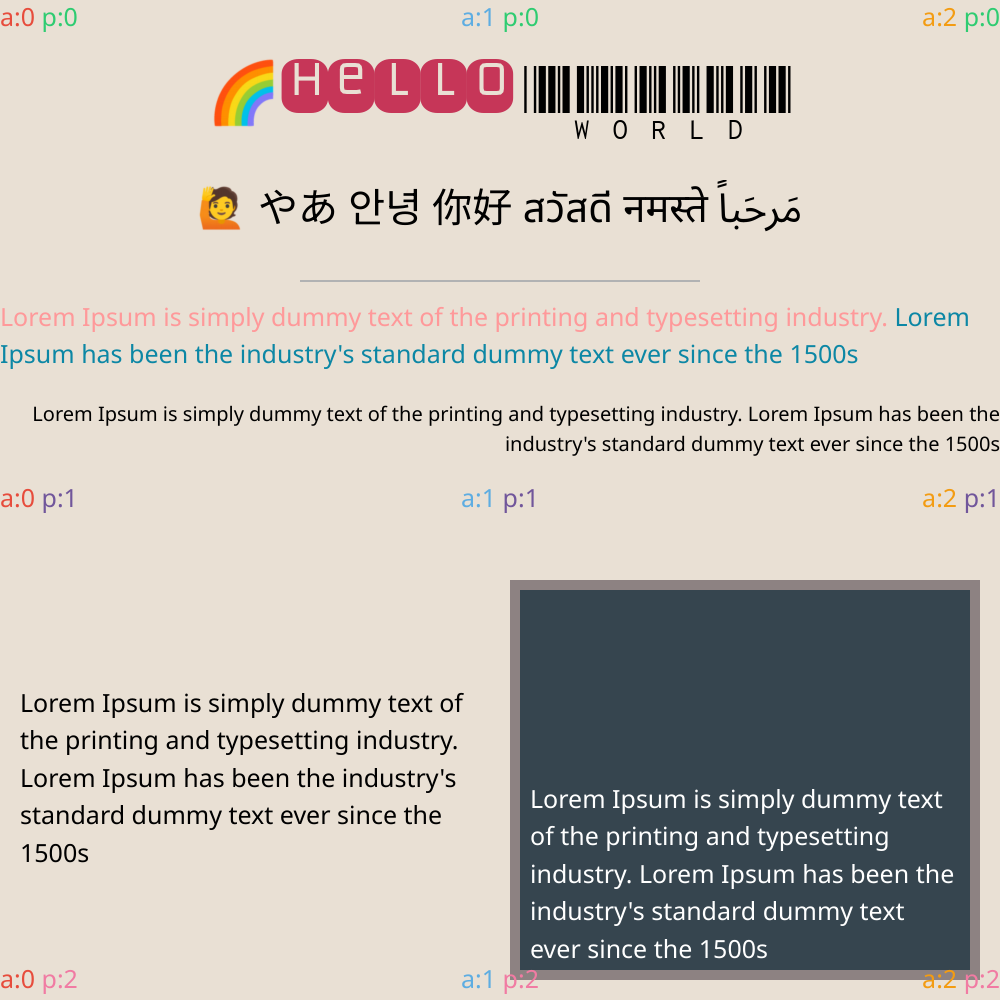
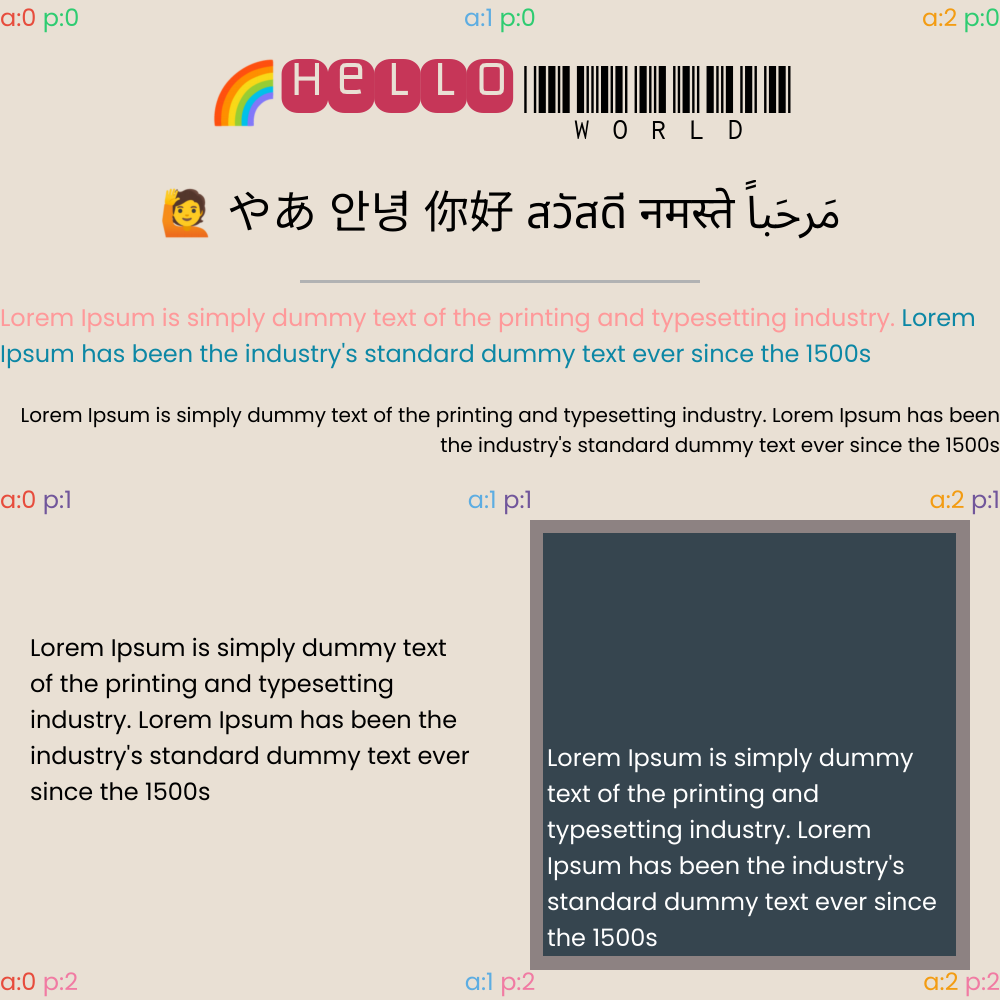
Refactor value to percentage

diff --git a/src/lib.rs b/src/lib.rs
@@ -10,8 +10,8 @@ pub struct Widget {
     p: Option<u8>,           // align widget (y axis) 0,1,2
     x: Option<f32>,          // position x axis
     y: Option<f32>,          // position x axis
-    w: Option<u32>,          // width
-    h: Option<u32>,          // height
+    w: Option<f32>,          // width
+    h: Option<f32>,          // height
     f: Option<u32>,          // font
     fs: Option<f32>,         // font size
     c: Option<String>,       // font color
@@ -20,10 +20,10 @@ pub struct Widget {
     ts: Option<Vec<Texts>>,  // texts item
     wi: Option<Vec<Widget>>, // widget item
     t: Option<String>,       // text
-    ml: Option<u32>,         // margin left
-    mt: Option<u32>,         // margin top
-    mr: Option<u32>,         // margin right
-    mb: Option<u32>,         // margin bottom
+    ml: Option<f32>,         // margin left
+    mt: Option<f32>,         // margin top
+    mr: Option<f32>,         // margin right
+    mb: Option<f32>,         // margin bottom
 }
 
 #[derive(Deserialize, Debug, PartialEq, Clone)]
@@ -38,14 +38,18 @@ pub struct ResultDrawText {
     pub count_pixel_out: u32,
 }
 
+fn cal_percent(percent: f32, of: f32) -> f32 {
+    of * (percent / 100.0)
+}
+
 fn draw_item(
     swash_cache: &mut SwashCache,
     font_system: &mut FontSystem,
     image: &mut DynamicImage,
     start_x: f32,
     start_y: f32,
-    text_layout_width: u32,
-    text_layout_height: u32,
+    text_layout_width: f32,
+    text_layout_height: f32,
     widgets: Vec<Widget>,
     default_font_family: u32,
     default_font_size: f32,
@@ -54,36 +58,46 @@ fn draw_item(
     faces: Vec<String>,
 ) -> Result<ResultDrawText, String> {
     let mut count_pixel_out = 0;
-    for widget in &widgets {
-        let widget_margin_left = widget.ml.unwrap_or(0);
-        let widget_margin_top = widget.mt.unwrap_or(0);
-        let widget_margin_right = widget.mr.unwrap_or(0);
-        let widget_margin_bottom = widget.mb.unwrap_or(0);
 
-        let widget_x = widget.x.unwrap_or(0.0) + start_x + widget_margin_left as f32;
-        let widget_y = widget.y.unwrap_or(0.0) + start_y + widget_margin_top as f32;
+    for widget in &widgets {
+        let widget_margin_left = cal_percent(widget.ml.unwrap_or(0.0), text_layout_width);
+        let widget_margin_top = cal_percent(widget.mt.unwrap_or(0.0), text_layout_height);
+        let widget_margin_right = cal_percent(widget.mr.unwrap_or(0.0), text_layout_width);
+        let widget_margin_bottom = cal_percent(widget.mb.unwrap_or(0.0), text_layout_height);
+        let widget_width = cal_percent(widget.w.unwrap_or(100.0), text_layout_width)
+            - widget_margin_left
+            - widget_margin_right;
+        let widget_height = cal_percent(widget.h.unwrap_or(100.0), text_layout_height)
+            - widget_margin_top
+            - widget_margin_bottom;
+        let widget_x =
+            cal_percent(widget.x.unwrap_or(0.0), text_layout_width) + start_x + widget_margin_left;
+        let widget_y =
+            cal_percent(widget.y.unwrap_or(0.0), text_layout_height) + start_y + widget_margin_top;
         let widget_a = widget.a.unwrap_or(0);
         let widget_p = widget.p.unwrap_or(0);
-
-        let widget_width =
-            widget.w.unwrap_or(text_layout_width) - widget_margin_left - widget_margin_right;
-        let widget_height =
-            widget.h.unwrap_or(text_layout_height) - widget_margin_top - widget_margin_bottom;
         let widget_font_size = widget.fs.unwrap_or(default_font_size);
         let widget_mlh = widget.mlh.unwrap_or(1.5);
 
         // Text metrics indicate the font size and line height of a buffer
-        let metrics = Metrics::new(widget_font_size, widget_font_size * widget_mlh);
+        let metrics = Metrics::new(
+            cal_percent(widget_font_size, image.width() as f32),
+            cal_percent(widget_font_size, image.width() as f32) * widget_mlh,
+        );
 
         // A Buffer provides shaping and layout for a UTF-8 string, create one per text widget
-        let mut buffer = Buffer::new_empty(metrics.scale(2.0));
+        let mut buffer = Buffer::new_empty(metrics.scale(1.0));
         // let mut buffer = Buffer::new_empty(metrics.scale(1.0));
 
         // Borrow buffer together with the font system for more convenient method calls
-        let mut buffer = buffer.borrow_with(font_system);
+        buffer.borrow_with(font_system);
 
         // Set a size for the text buffer, in pixels
-        buffer.set_size(Some(widget_width as f32), Some(widget_height as f32));
+        buffer.set_size(
+            font_system,
+            Some(widget_width as f32),
+            Some(widget_height as f32),
+        );
 
         // wrap text
         // buffer.set_wrap(cosmic_text::Wrap::None);
@@ -121,9 +135,8 @@ fn draw_item(
             .to_be_bytes();
 
             // fill bg base image
-            for y in 0..widget_height {
-                for x in 0..widget_width {
-                    // println!("x{} y{}", x, y);
+            for y in 0..widget_height as u32 {
+                for x in 0..widget_width as u32 {
                     image.put_pixel(x + widget_x as u32, y + widget_y as u32, Rgba(rgba_fill));
                 }
             }
@@ -137,7 +150,8 @@ fn draw_item(
             for it in widget_items {
                 if !it.t.is_empty() {
                     let font_id = it.f.unwrap_or(widget.f.unwrap_or(default_font_family));
-                    let font_size = it.fs.unwrap_or(widget_font_size);
+                    let font_size =
+                        cal_percent(it.fs.unwrap_or(widget_font_size), image.width() as f32);
 
                     let color = match it.c.is_some() {
                         true => {
@@ -166,7 +180,7 @@ fn draw_item(
                 }
             }
 
-            buffer.set_rich_text(spans.to_vec(), attrs, Shaping::Advanced);
+            buffer.set_rich_text(font_system, spans.to_vec(), attrs, Shaping::Advanced);
         }
 
         // Sum size area
@@ -179,8 +193,6 @@ fn draw_item(
             }
             sum_height += run.line_height;
         }
-
-        // println!("sum_height:{}",sum_height);
 
         // Inspect the output runs
         if !skip_size_check {
@@ -203,64 +215,71 @@ fn draw_item(
         }
 
         // Perform shaping as desired
-        buffer.shape_until_scroll(true);
+        buffer.shape_until_scroll(font_system, true);
 
         // buffer.redraw();
 
         // Draw the buffer (for performance, instead use SwashCache directly)
-        buffer.draw(swash_cache, widget_color, |d_x, d_y, d_w, d_h, color| {
-            if color.a() == 0 || d_w != 1 || d_h != 1 || d_x < 0 || d_y < 0 {
-                return;
-            }
-
-            let px = d_x as f32 + widget_x;
-            let py = match widget_p {
-                // TOP
-                0 => d_y as f32 + widget_y,
-                // Middle
-                1 => {
-                    (d_y as f32 + (widget_height / 2) as f32 - (sum_height / 2.0)) as f32 + widget_y
+        buffer.draw(
+            font_system,
+            swash_cache,
+            widget_color,
+            |d_x, d_y, d_w, d_h, color| {
+                if color.a() == 0 || d_w != 1 || d_h != 1 || d_x < 0 || d_y < 0 {
+                    return;
                 }
-                // Bottom
-                2 => d_y as f32 + widget_y + widget_height as f32 - sum_height,
-                _ => d_y as f32 + widget_y,
-            };
 
-            if px < image.width() as f32 && py < image.height() as f32 {
-                let base_color = image.get_pixel(px as u32, py as u32);
-                let new_alpha = color.a() as f32 / 255.0;
-                let base_alpha = base_color[3] as f32 / 255.0;
+                let px = d_x as f32 + widget_x;
+                let py = match widget_p {
+                    // TOP
+                    0 => d_y as f32 + widget_y,
+                    // Middle
+                    1 => {
+                        (d_y as f32 + (widget_height / 2.0) as f32 - (sum_height / 2.0)) as f32
+                            + widget_y
+                    }
 
-                let scale = |dc: u8, bc: u8| {
-                    (dc as f32 * new_alpha) + (bc as f32 * base_alpha * (1.0 - new_alpha))
+                    // Bottom
+                    2 => d_y as f32 + widget_y + widget_height as f32 - sum_height,
+                    _ => d_y as f32 + widget_y,
                 };
 
-                let r = scale(color.r(), base_color[0]);
-                let g = scale(color.g(), base_color[1]);
-                let b = scale(color.b(), base_color[2]);
-                let alpha = 255.0 * (new_alpha + base_alpha * (1.0 - new_alpha));
+                if px < image.width() as f32 && py < image.height() as f32 {
+                    let base_color = image.get_pixel(px as u32, py as u32);
+                    let new_alpha = color.a() as f32 / 255.0;
+                    let base_alpha = base_color[3] as f32 / 255.0;
 
-                image.put_pixel(
-                    px as u32,
-                    py as u32,
-                    Rgba([r as u8, g as u8, b as u8, alpha as u8]),
-                );
+                    let scale = |dc: u8, bc: u8| {
+                        (dc as f32 * new_alpha) + (bc as f32 * base_alpha * (1.0 - new_alpha))
+                    };
 
-                // Scale by alpha (mimics blending with black)
+                    let r = scale(color.r(), base_color[0]);
+                    let g = scale(color.g(), base_color[1]);
+                    let b = scale(color.b(), base_color[2]);
+                    let alpha = 255.0 * (new_alpha + base_alpha * (1.0 - new_alpha));
 
-                // let scale = |c: u8| (c as i32 * color.a() as i32 / 255).clamp(0, 255) as u8;
+                    image.put_pixel(
+                        px as u32,
+                        py as u32,
+                        Rgba([r as u8, g as u8, b as u8, alpha as u8]),
+                    );
 
-                // let r = scale(color.r());
-                // let g = scale(color.g());
-                // let b = scale(color.b());
-                // // let a = scale(color.a());
-                // let a = 255.0 * (new_alpha + base_alpha * (1.0 - new_alpha));
-                // image.put_pixel(px, py, Rgba([r as u8, g as u8, b as u8, a as u8]));
-            } else {
-                println!("{:#?}", (d_x, d_y, d_w, d_h));
-                count_pixel_out += 1;
-            }
-        });
+                    // Scale by alpha (mimics blending with black)
+
+                    // let scale = |c: u8| (c as i32 * color.a() as i32 / 255).clamp(0, 255) as u8;
+
+                    // let r = scale(color.r());
+                    // let g = scale(color.g());
+                    // let b = scale(color.b());
+                    // // let a = scale(color.a());
+                    // let a = 255.0 * (new_alpha + base_alpha * (1.0 - new_alpha));
+                    // image.put_pixel(px, py, Rgba([r as u8, g as u8, b as u8, a as u8]));
+                } else {
+                    println!("{:#?}", (d_x, d_y, d_w, d_h));
+                    count_pixel_out += 1;
+                }
+            },
+        );
 
         if widget.wi.is_some() {
             let result_draw_item = draw_item(
@@ -296,8 +315,8 @@ pub fn draw_text(
     image: &mut DynamicImage,
     start_x: f32,
     start_y: f32,
-    text_layout_width: u32,
-    text_layout_height: u32,
+    text_layout_width: f32,
+    text_layout_height: f32,
     widgets: Vec<Widget>,
     default_font_size: f32,
     default_color: &String,

diff --git a/src/main.rs b/src/main.rs
@@ -5,18 +5,19 @@ use std::fs::read;
 // example to used lib
 fn main() {
     let fonts_path = [
+        "fonts/poppins-v21-latin-regular.ttf",
         "fonts/noto-sans-thai-v25-thai-regular.ttf",
-        "fonts/Monofett-Regular.ttf",
-        "fonts/LibreBarcode39Text-Regular.ttf",
         "fonts/noto-sans-arabic-v28-arabic-regular.ttf",
         "fonts/noto-sans-jp-v53-japanese-regular.ttf",
         "fonts/noto-sans-kr-v36-korean-regular.ttf",
         "fonts/noto-sans-sc-v37-chinese-simplified-regular.ttf",
         "fonts/noto-sans-devanagari-v26-devanagari-regular.ttf",
         "fonts/NotoColorEmoji.ttf",
+        "fonts/Monofett-Regular.ttf",
+        "fonts/LibreBarcode39Text-Regular.ttf",
     ];
 
-    let json_txt = "[{fill:'e9e0d4'},{y:30,a:1,c:'000000',ts:[{fs:60,t:'🌈'},{f:1,fs:80,c:'C63658',t:'Hello '},{f:2,fs:80,t:'*world*'}]},{y:280,h:2,ml:300,mr:300,fill:'b1b2b3'},{y:300,c:'ff999a',ts:[{t:'Lorem Ipsum is simply dummy text of the printing and typesetting industry.'},{c:'0c87a5',t:' Lorem Ipsum has been the industry\\'s standard dummy text ever since the 1500s'}]},{y:400,a:2,ts:[{fs:20,t:'Lorem Ipsum is simply dummy text of the printing and typesetting industry. Lorem Ipsum has been the industry\\'s standard dummy text ever since the 1500s'}]},{a:1,y:180,fs:40,ts:[{t:'🙋 やあ 안녕 你好 สวัสดี नमस्ते مَرحَباً'}]},{y:580,ml:20,mr:10,p:1,w:500,h:400,ts:[{c:'000000',t:'Lorem Ipsum is simply dummy text of the printing and typesetting industry. Lorem Ipsum has been the industry\\'s standard dummy text ever since the 1500s'}]},{x:500,y:580,w:500,h:400,ml:10,mr:20,fill:'8d8282',wi:[{ml:10,mr:10,mb:10,mt:10,fill:'36454F',wi:[{p:2,ml:10,mr:10,ts:[{c:'ffffff',t:'Lorem Ipsum is simply dummy text of the printing and typesetting industry. Lorem Ipsum has been the industry\\'s standard dummy text ever since the 1500s'}]}]}]},{ts:[{c:'e74c3c',t:'a:0'},{c:'2ecc71',t:' p:0'}]},{a:1,ts:[{c:'5dade2',t:'a:1'},{c:'2ecc71',t:' p:0'}]},{a:2,ts:[{c:'f39c12',t:'a:2'},{c:'2ecc71',t:' p:0'}]},{p:1,ts:[{c:'e74c3c',t:'a:0'},{c:'71569b',t:' p:1'}]},{a:1,p:1,ts:[{c:'5dade2',t:'a:1'},{c:'71569b',t:' p:1'}]},{a:2,p:1,ts:[{c:'f39c12',t:'a:2'},{c:'71569b',t:' p:1'}]},{p:2,ts:[{c:'e74c3c',t:'a:0'},{c:'f17ba3',t:' p:2'}]},{a:1,p:2,ts:[{c:'5dade2',t:'a:1'},{c:'f17ba3',t:' p:2'}]},{a:2,p:2,ts:[{c:'f39c12',t:'a:2'},{c:'f17ba3',t:' p:2'}]}]";
+    let json_txt = "[{fill:'e9e0d4'},{y:3,a:1,c:'000000',ts:[{fs:6,t:'🌈'},{f:8,fs:8,c:'C63658',t:'Hello '},{f:9,fs:8,t:'*world*'}]},{a:1,y:18,fs:4.5,ts:[{t:'🙋 やあ 안녕 你好 สวัสดี नमस्ते مَرحَباً'}]},{y:28,h:0.3,ml:30,mr:30,fill:'b1b2b3'},{y:30,c:'ff999a',ts:[{t:'Lorem Ipsum is simply dummy text of the printing and typesetting industry.'},{c:'0c87a5',t:' Lorem Ipsum has been the industry\\'s standard dummy text ever since the 1500s'}]},{y:40,a:2,ts:[{fs:2,t:'Lorem Ipsum is simply dummy text of the printing and typesetting industry. Lorem Ipsum has been the industry\\'s standard dummy text ever since the 1500s'}]},{y:52,ml:3,mr:3,p:1,w:50,h:40,ts:[{c:'000000',t:'Lorem Ipsum is simply dummy text of the printing and typesetting industry. Lorem Ipsum has been the industry\\'s standard dummy text ever since the 1500s'}]},{x:50,y:52,w:50,h:45,ml:3,mr:3,fill:'8d8282',wi:[{ml:3,mr:3,mb:3,mt:3,fill:'36454F',wi:[{p:2,ml:1,mr:1,ts:[{c:'ffffff',t:'Lorem Ipsum is simply dummy text of the printing and typesetting industry. Lorem Ipsum has been the industry\\'s standard dummy text ever since the 1500s'}]}]}]},{ts:[{c:'e74c3c',t:'a:0'},{c:'2ecc71',t:' p:0'}]},{a:1,ts:[{c:'5dade2',t:'a:1'},{c:'2ecc71',t:' p:0'}]},{a:2,ts:[{c:'f39c12',t:'a:2'},{c:'2ecc71',t:' p:0'}]},{p:1,ts:[{c:'e74c3c',t:'a:0'},{c:'71569b',t:' p:1'}]},{a:1,p:1,ts:[{c:'5dade2',t:'a:1'},{c:'71569b',t:' p:1'}]},{a:2,p:1,ts:[{c:'f39c12',t:'a:2'},{c:'71569b',t:' p:1'}]},{p:2,ts:[{c:'e74c3c',t:'a:0'},{c:'f17ba3',t:' p:2'}]},{a:1,p:2,ts:[{c:'5dade2',t:'a:1'},{c:'f17ba3',t:' p:2'}]},{a:2,p:2,ts:[{c:'f39c12',t:'a:2'},{c:'f17ba3',t:' p:2'}]}]";
 
     let font_db = fontdb::Database::new();
     let mut font_system =
@@ -31,11 +32,11 @@ fn main() {
     let mut swash_cache = SwashCache::new();
 
     // Create an image buffer
-    let image_width = 1000;
-    let image_height = 1000;
+    let image_width = 1000.0;
+    let image_height = 1000.0;
     let mut image = DynamicImage::new_rgba8(image_width as u32, image_height as u32);
 
-    let font_size_adjust = 25.0;
+    let font_size_adjust = 2.4;
 
     let widgets = json5::from_str::<Vec<Widget>>(&json_txt).unwrap();
 
